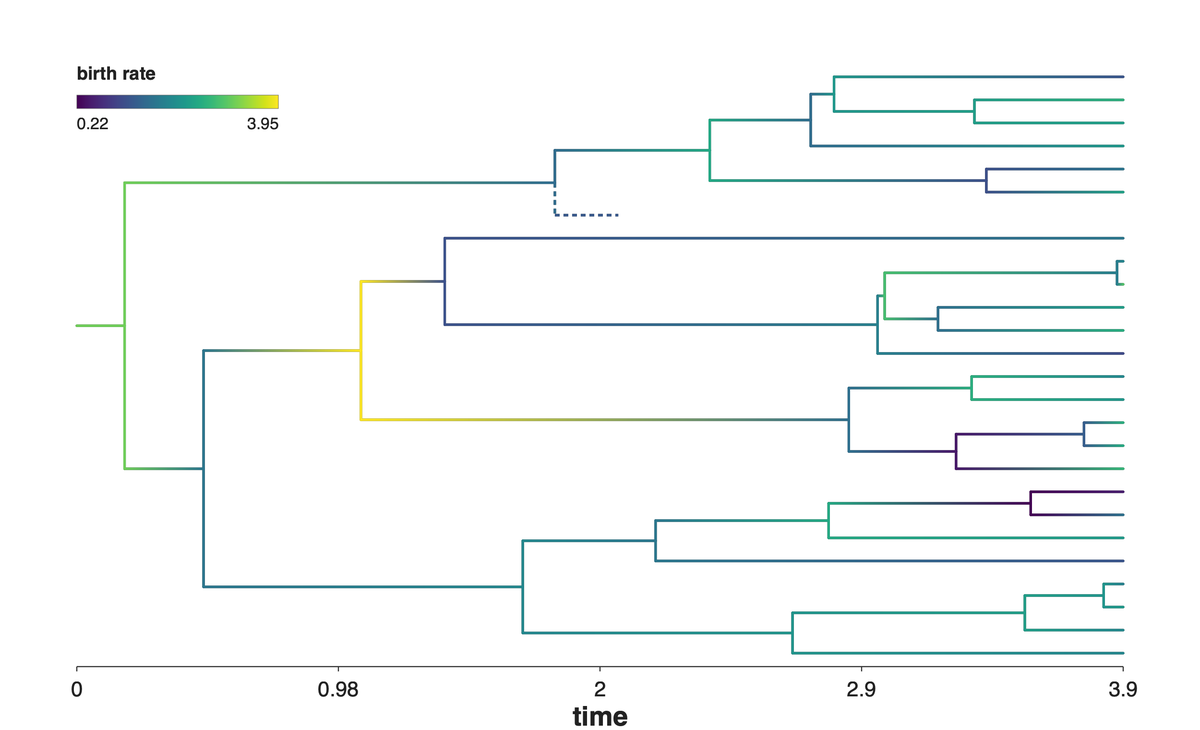
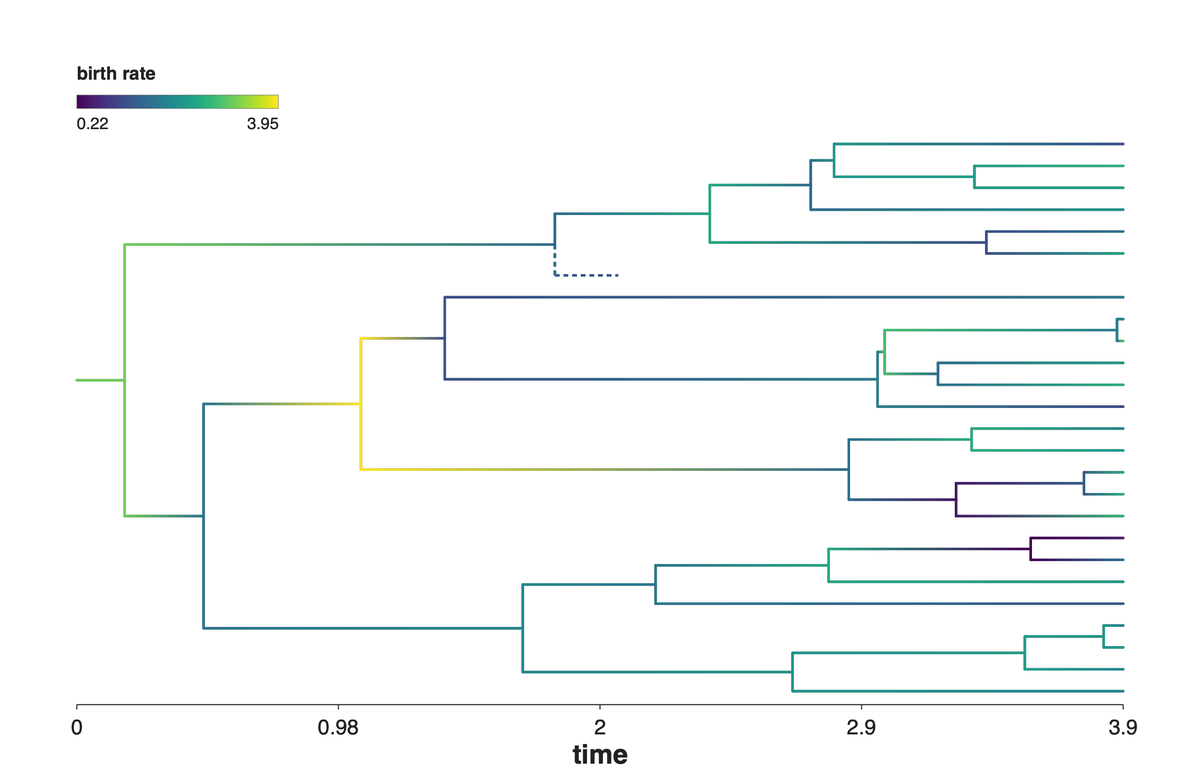
fix(gallery): a key with a row of its own, and the retired mark out of the README
The colour key on the two species rate cards still shared its row with the tree's first
branch: the backing box cleared what was behind the label, but the branch carried on to
the right of it and read as a line running through the key. Moving the key traded the
problem for a worse one — bottom-left lands on the time axis — so the tree gets room
above instead, which is `Style(headroom=…)` in Phylustrator 0.2.15.

The README still showed the small tree mark that the site retired when the Z became the
mark. It shows the Z now, and `assets/logo.svg` is deleted rather than left lying around
for something to pick up again.

diff --git a/web/gallery.html b/web/gallery.html
@@ -92,7 +92,7 @@ footer code{font:600 .82rem ui-monospace,monospace;color:var(--muted)}
     <button class="toggle" id="toggle" aria-label="Toggle colour theme">◑ <span>Dark</span></button>
   </div>
   <header class="masthead">
-    <h1>Examples gallery <span class="version">ZOMBI2 0.39.0</span></h1>
+    <h1>Examples gallery <span class="version">ZOMBI2 0.39.1</span></h1>
     <p class="lede gallery-note">Click any figure for the code that produces it. Every example
       simulates with ZOMBI2 and plots with <a href="https://pypi.org/project/phylustrator/">Phylustrator</a>,
       a separate package &mdash; so to run one you need both:</p>

diff --git a/gallery/species.py b/gallery/species.py
@@ -136,7 +136,9 @@ def _rate_tree(name, out):
     the third place saying it."""
     got = _rate_panels()
     tree, dashed, logr = got["panels"][name]
-    style = ph.Style(width=1250, height=760, margin=80, branch_width=2.6)
+    # headroom so the key at the top-left has a row of its own: this tree's first branch reaches
+    # that corner, and a key sharing the row with it reads as a line running through the label
+    style = ph.Style(width=1250, height=800, margin=80, headroom=70, branch_width=2.6)
     (ph.trees.plot(tree, dashed=dashed, style=style)
      + ph.trees.color_branches(logr, cmap="viridis", limits=got["limits"])
      + ph.trees.colorbar("birth rate", loc="top-left",

diff --git a/README.md b/README.md
@@ -1,5 +1,5 @@
 <h1>
-  ZOMBI2&nbsp;<img src="https://raw.githubusercontent.com/AADavin/zombi2/main/assets/logo.svg" alt="ZOMBI2 logo" height="45" align="absmiddle">
+  <img src="https://raw.githubusercontent.com/AADavin/zombi2/main/web/favicon.svg" alt="" height="42" align="absmiddle">&nbsp;ZOMBI2
 </h1>
 
 **[🌐 Website](https://aadavin.github.io/zombi2/)** · [Gallery](https://aadavin.github.io/zombi2/gallery.html) · [Documentation](https://aadavin.github.io/zombi2/docs/) · [Manual (pdf)](https://aadavin.github.io/zombi2/zombi2-manual.pdf)

diff --git a/CHANGELOG.md b/CHANGELOG.md
@@ -9,6 +9,13 @@ which moves the entries below from `[Unreleased]` into a dated version section.
 
 ## [Unreleased]
 
+### Changed
+
+- The species rate cards give their colour key a row of its own, so the tree's first branch no
+  longer runs alongside the label (Phylustrator 0.2.15, `Style(headroom=…)`). (#366)
+- The README shows the Z, not the retired tree mark, and `assets/logo.svg` is gone with it. (#366)
+
+
 ## [0.39.1] - 2026-08-14
 
 ### Changed
